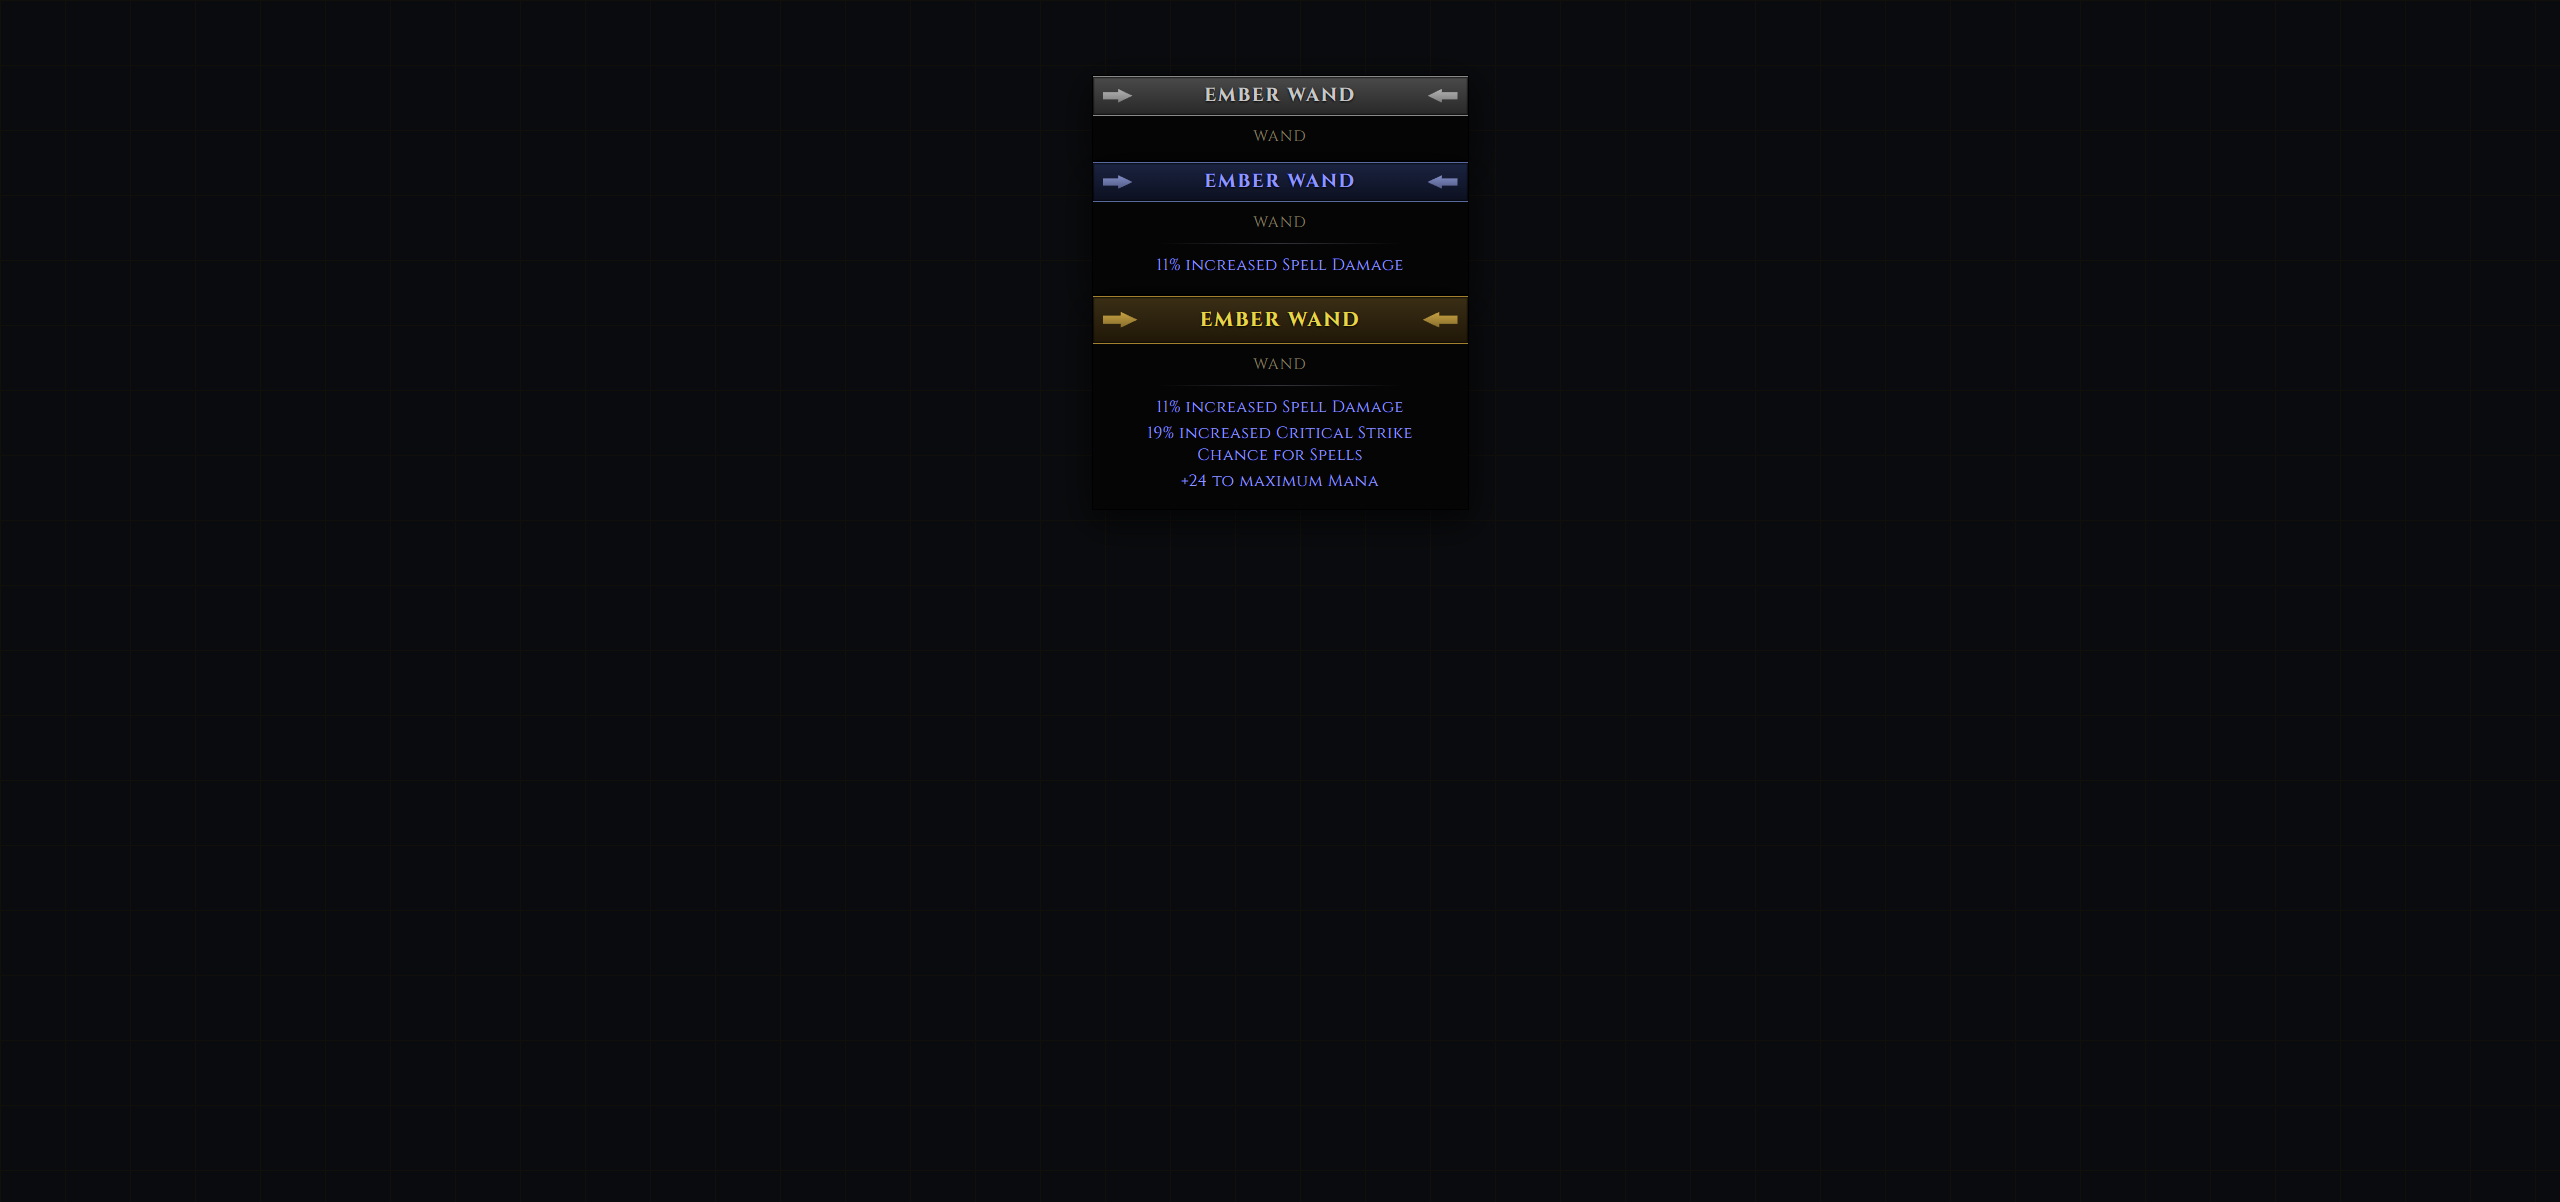
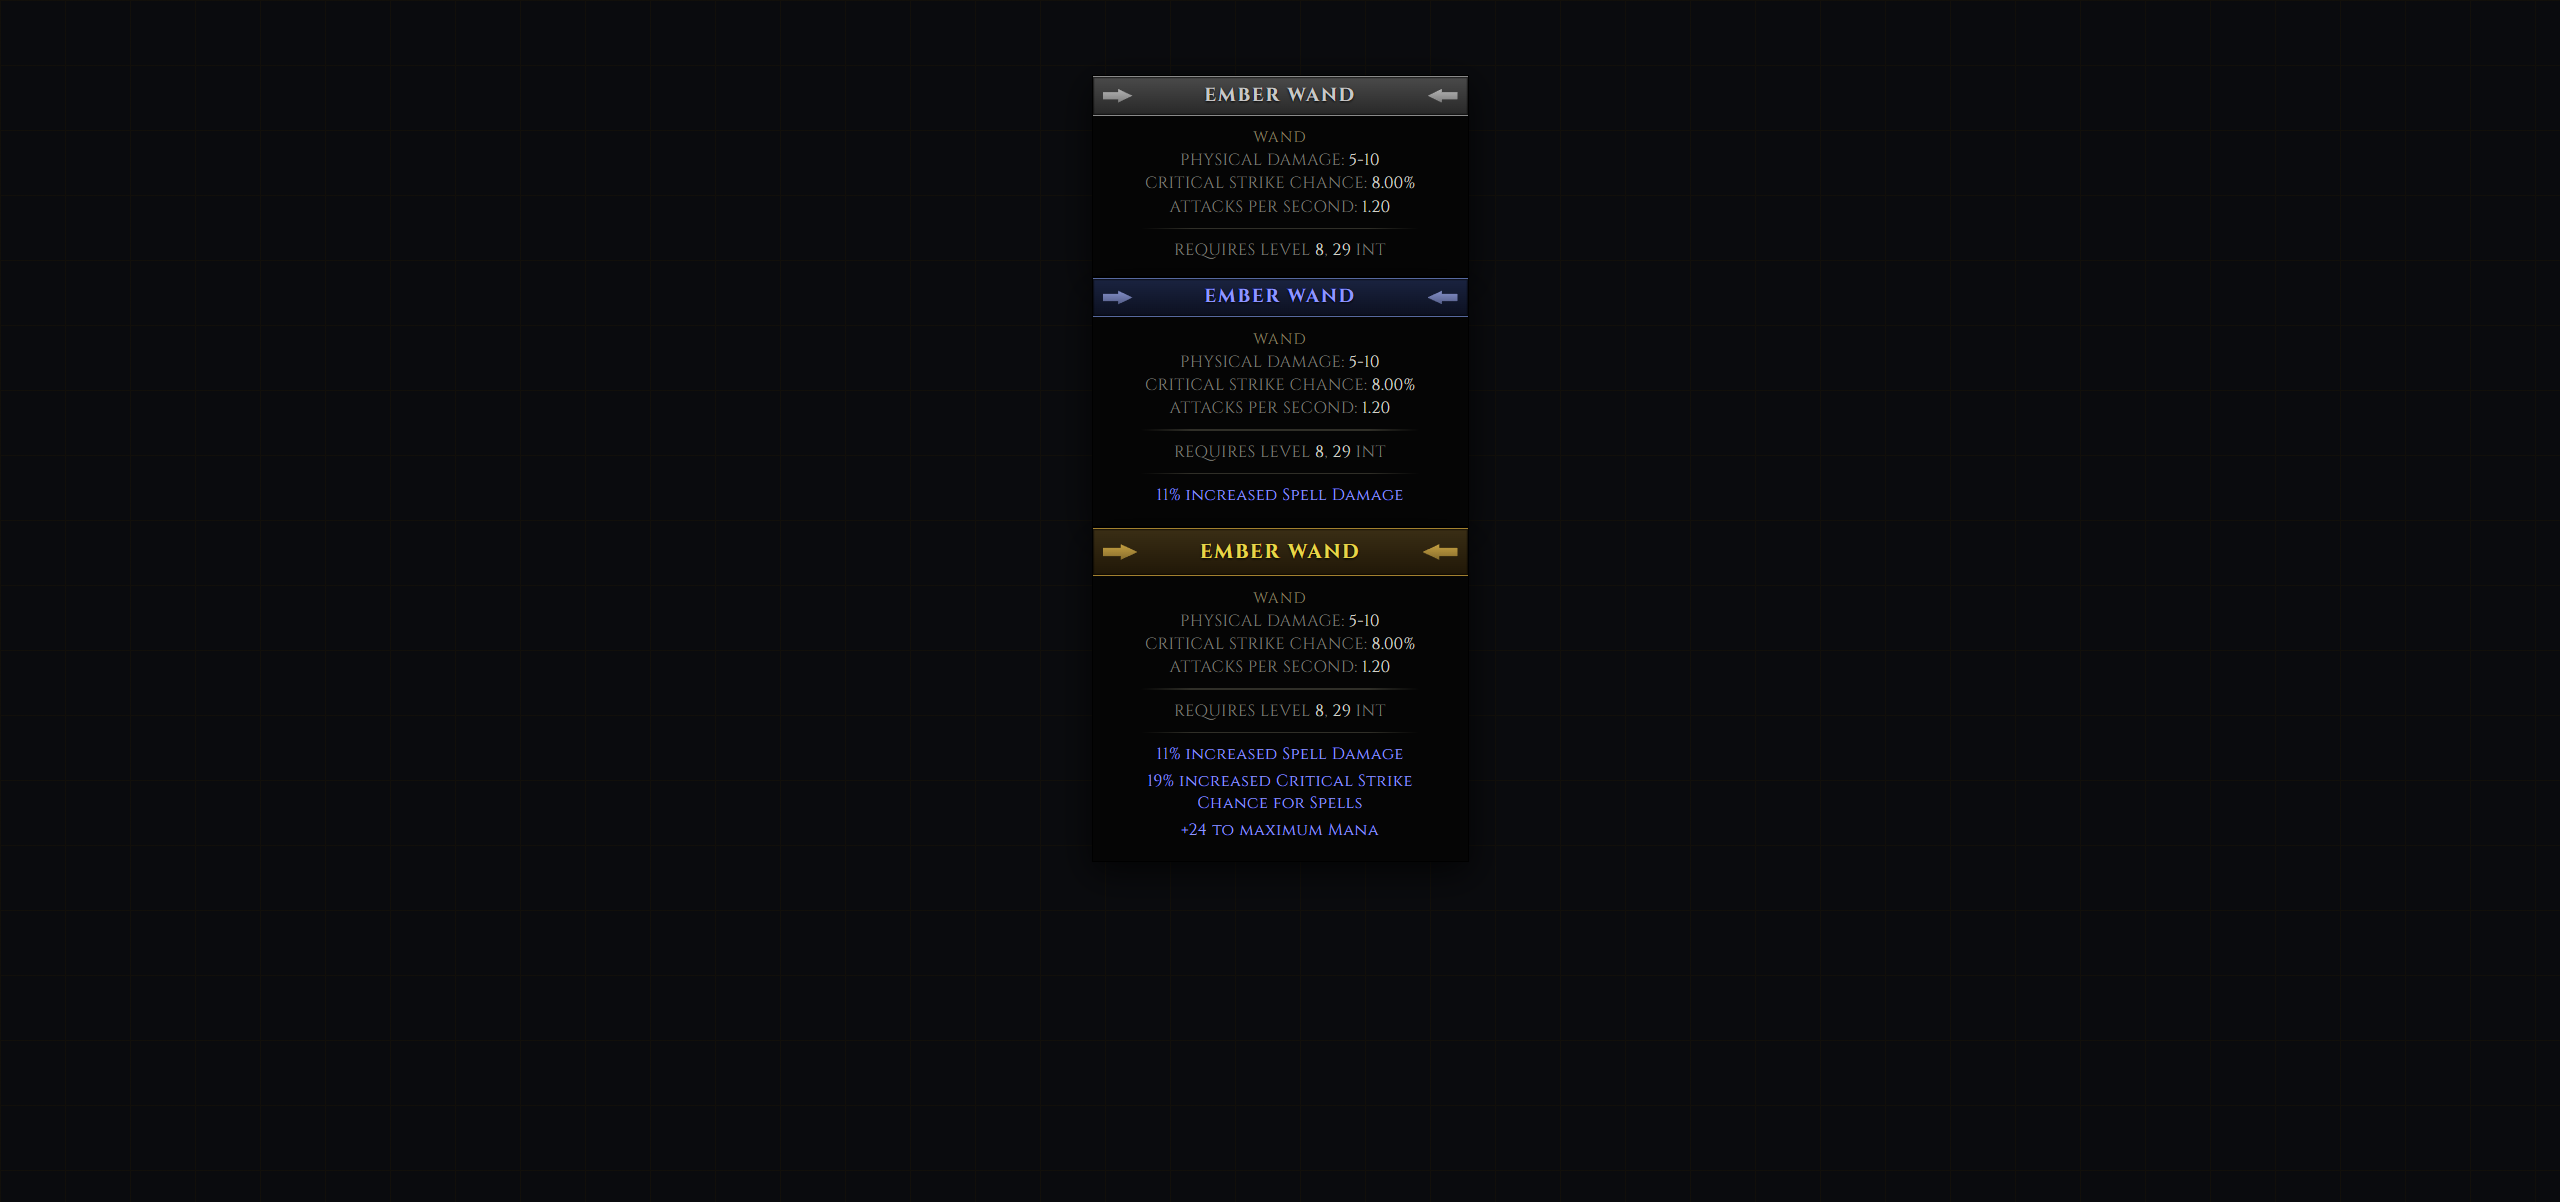
feat(items): full PoE2 tooltip body with base stats and requirements
Add a real stats block to ItemBase (weapon phys damage, crit, APS, requirement level and attribute) and project it through describeItem and the snapshot as structured stat lines. The tooltip now renders the full poe2-screenshots/item-*.png layout: header, item class, base-stat block (grey label, light value), a Requires Level line, then augmented-blue affixes, with faint section dividers.

Changed region(s): [[0.4062, 0.1231, 0.5938, 0.708]]

diff --git a/apps/web/src/hud/ItemTooltip.tsx b/apps/web/src/hud/ItemTooltip.tsx
@@ -1,4 +1,5 @@
 import React from "react";
+import type { ItemStatLine } from "@pact/protocol";
 
 // PoE2 item tooltip. Matched to poe2-screenshots/item-{normal,magic,rare,unique}.png:
 // near-black panel, centered small-caps serif, a rarity-framed header band with
@@ -9,6 +10,8 @@ import React from "react";
 const SERIF = '"Cinzel", "Trajan Pro", Georgia, "Times New Roman", serif';
 const AFFIX_BLUE = "#8f97ff";
 const CLASS_TAN = "#8a8065";
+const LABEL_GREY = "#7b7b74"; // stat/requirement words
+const VALUE_LIGHT = "#d2d2c8"; // stat/requirement numbers
 
 type Look = { text: string; headBg: string; frame: string; flourish: string; ornate: boolean };
 const RARITY = {
@@ -46,10 +49,19 @@ function Flourish({ color, side, ornate }: { color: string; side: "left" | "righ
   );
 }
 
+// Faint section divider between the stat block, requirements, and affixes.
+function Rule() {
+  return <div style={{ height: 1, margin: "8px auto", width: "82%", background: "linear-gradient(90deg,transparent,#302f28 18%,#302f28 82%,transparent)" }} />;
+}
+
 export function ItemTooltip({
   name,
   rarity,
   itemClass,
+  statLines,
+  reqLevel,
+  reqAttrValue,
+  reqAttr,
   lines,
   x,
   y,
@@ -57,6 +69,10 @@ export function ItemTooltip({
   name: string;
   rarity: string;
   itemClass?: string;
+  statLines?: ItemStatLine[];
+  reqLevel?: number;
+  reqAttrValue?: number;
+  reqAttr?: string;
   lines: string[];
   x: number;
   y: number;
@@ -111,15 +127,39 @@ export function ItemTooltip({
         <Flourish color={r.flourish} side="right" ornate={r.ornate} />
       </div>
 
-      <div style={{ padding: "8px 14px 11px" }}>
+      <div style={{ padding: "9px 14px 12px" }}>
         {itemClass && (
-          <div style={{ color: CLASS_TAN, fontSize: 12, letterSpacing: 1, textTransform: "uppercase" }}>{itemClass}</div>
+          <div style={{ color: CLASS_TAN, fontSize: 12, letterSpacing: 1, textTransform: "uppercase", marginBottom: 1 }}>{itemClass}</div>
         )}
+        {statLines?.map((s, i) => (
+          <div key={i} style={{ fontSize: 13, letterSpacing: 0.3, margin: "1px 0", textTransform: "uppercase" }}>
+            <span style={{ color: LABEL_GREY }}>{s.label}: </span>
+            <span style={{ color: VALUE_LIGHT }}>{s.value}</span>
+          </div>
+        ))}
+
+        {reqLevel !== undefined && (
+          <>
+            <Rule />
+            <div style={{ fontSize: 13, letterSpacing: 0.3, textTransform: "uppercase" }}>
+              <span style={{ color: LABEL_GREY }}>Requires Level </span>
+              <span style={{ color: VALUE_LIGHT }}>{reqLevel}</span>
+              {reqAttrValue !== undefined && reqAttr && (
+                <>
+                  <span style={{ color: LABEL_GREY }}>, </span>
+                  <span style={{ color: VALUE_LIGHT }}>{reqAttrValue} </span>
+                  <span style={{ color: LABEL_GREY }}>{reqAttr}</span>
+                </>
+              )}
+            </div>
+          </>
+        )}
+
         {lines.length > 0 && (
           <>
-            <div style={{ height: 1, margin: "8px auto", width: "72%", background: "linear-gradient(90deg,transparent,#33323a,transparent)" }} />
+            <Rule />
             {lines.map((l, i) => (
-              <div key={i} style={{ color: AFFIX_BLUE, fontSize: 13, letterSpacing: 0.4, margin: "3px 0" }}>
+              <div key={i} style={{ color: AFFIX_BLUE, fontSize: 13, letterSpacing: 0.4, margin: "4px 0" }}>
                 {l}
               </div>
             ))}

diff --git a/packages/content-runtime/src/items.ts b/packages/content-runtime/src/items.ts
@@ -3,7 +3,14 @@ import { validateItemBase, validateAffix, type ItemBase, type Affix, type Item, 
 // Tiny hand-authored pool for the First Loot slice. Grid dims (w×h) follow the
 // 12×5 inventory. Real 45-base / 120-affix content is Phase 4 proper.
 const ITEM_BASES: ItemBase[] = [
-  { id: "base.emberwand", name: "Ember Wand", itemClass: "wand", w: 1, h: 2 },
+  {
+    id: "base.emberwand",
+    name: "Ember Wand",
+    itemClass: "wand",
+    w: 1,
+    h: 2,
+    stats: { physMin: 5, physMax: 10, critPct: 8, aps: 1.2, reqLevel: 8, reqAttrValue: 29, reqAttr: "Int" },
+  },
   { id: "base.ashen_focus", name: "Ashen Focus", itemClass: "focus", w: 2, h: 2 },
   { id: "base.cinder_cap", name: "Cinder Cap", itemClass: "helmet", w: 2, h: 2 },
   { id: "base.emberweave_robe", name: "Emberweave Robe", itemClass: "body", w: 2, h: 3 },
@@ -40,11 +47,38 @@ export function baseOf(baseId: string): ItemBase {
 }
 
 // Render-ready projection: base name + one line per committed affix roll.
-export function describeItem(item: Item): { name: string; rarity: Rarity; itemClass: string; lines: string[] } {
+export interface ItemDescription {
+  name: string;
+  rarity: Rarity;
+  itemClass: string;
+  /** base-stat lines rendered "label: value" (empty for bases without stats) */
+  statLines: { label: string; value: string }[];
+  reqLevel?: number;
+  reqAttrValue?: number;
+  reqAttr?: string;
+  /** affix lines */
+  lines: string[];
+}
+
+export function describeItem(item: Item): ItemDescription {
   const base = baseOf(item.baseId);
+  const s = base.stats;
+  const statLines: { label: string; value: string }[] = [];
+  if (s?.physMin !== undefined && s.physMax !== undefined) statLines.push({ label: "Physical Damage", value: `${s.physMin}-${s.physMax}` });
+  if (s?.critPct !== undefined) statLines.push({ label: "Critical Strike Chance", value: `${s.critPct.toFixed(2)}%` });
+  if (s?.aps !== undefined) statLines.push({ label: "Attacks per Second", value: s.aps.toFixed(2) });
   const lines = item.affixes.map((ia) => {
     const a = AFFIX_BY_ID.get(ia.affixId);
     return a ? `+${ia.value} ${a.label}` : `+${ia.value} ${ia.affixId}`;
   });
-  return { name: base.name, rarity: item.rarity, itemClass: base.itemClass, lines };
+  return {
+    name: base.name,
+    rarity: item.rarity,
+    itemClass: base.itemClass,
+    statLines,
+    reqLevel: s?.reqLevel,
+    reqAttrValue: s?.reqAttrValue,
+    reqAttr: s?.reqAttr,
+    lines,
+  };
 }

diff --git a/apps/web/src/hud/InventoryPanel.test.tsx b/apps/web/src/hud/InventoryPanel.test.tsx
@@ -8,11 +8,18 @@ afterEach(cleanup);
 const inv = {
   cols: 12,
   rows: 5,
-  items: [{ x: 0, y: 0, w: 2, h: 2, rarity: "magic" as const, name: "Ember Wand", itemClass: "wand", lines: ["+12 to maximum Life"] }],
+  items: [
+    {
+      x: 0, y: 0, w: 2, h: 2, rarity: "magic" as const, name: "Ember Wand", itemClass: "wand",
+      statLines: [{ label: "Physical Damage", value: "5-10" }, { label: "Attacks per Second", value: "1.20" }],
+      reqLevel: 8, reqAttrValue: 29, reqAttr: "Int",
+      lines: ["+12 to maximum Life"],
+    },
+  ],
 };
 
 describe("InventoryPanel", () => {
-  it("shows the PoE2 item tooltip on hover with name, class and affix lines", () => {
+  it("shows the PoE2 item tooltip on hover with name, class, base stats, requirements and affixes", () => {
     render(<InventoryPanel inventory={inv} onClose={() => {}} />);
     expect(screen.getByTestId("inventory-panel")).toBeTruthy();
     const item = screen.getByTestId("inventory-item-0");
@@ -22,6 +29,11 @@ describe("InventoryPanel", () => {
     const tip = screen.getByTestId("item-tooltip");
     expect(tip.textContent).toContain("Ember Wand");
     expect(tip.textContent).toContain("wand");
+    expect(tip.textContent).toContain("Physical Damage");
+    expect(tip.textContent).toContain("5-10");
+    expect(tip.textContent).toContain("Requires Level");
+    expect(tip.textContent).toContain("29");
+    expect(tip.textContent).toContain("Int");
     expect(tip.textContent).toContain("+12 to maximum Life");
 
     fireEvent.mouseLeave(item);

diff --git a/packages/content-schema/src/index.ts b/packages/content-schema/src/index.ts
@@ -319,12 +319,28 @@ export function validateMonsterDef(v: unknown): ValidationResult {
 // ── Items (First Loot slice) ────────────────────────────────────────────────
 export type Rarity = "normal" | "magic";
 
+/** Tooltip base-stat block shown between the header and affixes (poe2-screenshots/item-*.png). */
+export interface ItemStats {
+  /** weapon physical damage range (rendered "min-max") */
+  physMin?: number;
+  physMax?: number;
+  /** weapon crit chance percent (8 -> "8.00%") */
+  critPct?: number;
+  /** weapon attacks per second (1.2 -> "1.20") */
+  aps?: number;
+  /** requirement level */
+  reqLevel?: number;
+  /** single attribute requirement, e.g. { value: 29, attr: "Int" } */
+  reqAttrValue?: number;
+  reqAttr?: "Str" | "Dex" | "Int";
+}
 export interface ItemBase {
   id: string;
   name: string;
   itemClass: string;
   w: number;
   h: number;
+  stats?: ItemStats;
 }
 
 export interface Affix {
@@ -376,6 +392,9 @@ export function validateItemBase(v: unknown): ValidationResult {
   }
   if (!isPosInt(v["h"])) {
     errors.push("h: must be a positive integer");
+  }
+  if (v["stats"] !== undefined && !isObj(v["stats"])) {
+    errors.push("stats: must be an object when present");
   }
   return { ok: errors.length === 0, errors };
 }

diff --git a/packages/protocol/src/index.ts b/packages/protocol/src/index.ts
@@ -86,6 +86,17 @@ export interface SnapshotEntity {
   lines?: string[];
   /** groundItem only: base item class label ("wand", "focus") for the tooltip. */
   itemClass?: string;
+  /** groundItem only: tooltip base-stat block + requirements (poe2-screenshots/item-*.png). */
+  statLines?: ItemStatLine[];
+  reqLevel?: number;
+  reqAttrValue?: number;
+  reqAttr?: string;
+}
+
+/** One "label: value" row in an item tooltip's base-stat block. */
+export interface ItemStatLine {
+  label: string;
+  value: string;
 }
 
 export interface Snapshot {
@@ -113,7 +124,11 @@ export interface Snapshot {
   /** Grid inventory (session singleton), display-ready. Empty when no session. */
   inventory: {
     cols: number; rows: number;
-    items: { x: number; y: number; w: number; h: number; rarity: ItemRarity; name: string; itemClass?: string; lines: string[] }[];
+    items: {
+      x: number; y: number; w: number; h: number;
+      rarity: ItemRarity; name: string; itemClass?: string; lines: string[];
+      statLines?: ItemStatLine[]; reqLevel?: number; reqAttrValue?: number; reqAttr?: string;
+    }[];
   };
 }
 

diff --git a/packages/simulation/src/protocol-bridge.ts b/packages/simulation/src/protocol-bridge.ts
@@ -157,6 +157,10 @@ export function buildSnapshot(
       rarity: d.rarity,
       name: d.name,
       itemClass: d.itemClass,
+      statLines: d.statLines,
+      reqLevel: d.reqLevel,
+      reqAttrValue: d.reqAttrValue,
+      reqAttr: d.reqAttr,
       lines: d.lines,
       inRange: inRangeOf(pp.x, pp.y, ip.x, ip.y, PICKUP_RADIUS),
     });
@@ -170,7 +174,11 @@ export function buildSnapshot(
     rows: invC?.rows ?? 5,
     items: (invC?.items ?? []).map((p) => {
       const d = describeItem(p.item);
-      return { x: p.x, y: p.y, w: p.w, h: p.h, rarity: d.rarity, name: d.name, itemClass: d.itemClass, lines: d.lines };
+      return {
+        x: p.x, y: p.y, w: p.w, h: p.h,
+        rarity: d.rarity, name: d.name, itemClass: d.itemClass, lines: d.lines,
+        statLines: d.statLines, reqLevel: d.reqLevel, reqAttrValue: d.reqAttrValue, reqAttr: d.reqAttr,
+      };
     }),
   };
 

diff --git a/apps/web/src/hud/InventoryPanel.tsx b/apps/web/src/hud/InventoryPanel.tsx
@@ -247,6 +247,10 @@ export function InventoryPanel({ inventory, onClose }: { inventory: Inventory; o
           name={items[hover.i]!.name}
           rarity={items[hover.i]!.rarity}
           itemClass={items[hover.i]!.itemClass}
+          statLines={items[hover.i]!.statLines}
+          reqLevel={items[hover.i]!.reqLevel}
+          reqAttrValue={items[hover.i]!.reqAttrValue}
+          reqAttr={items[hover.i]!.reqAttr}
           lines={items[hover.i]!.lines}
           x={hover.x}
           y={hover.y}
